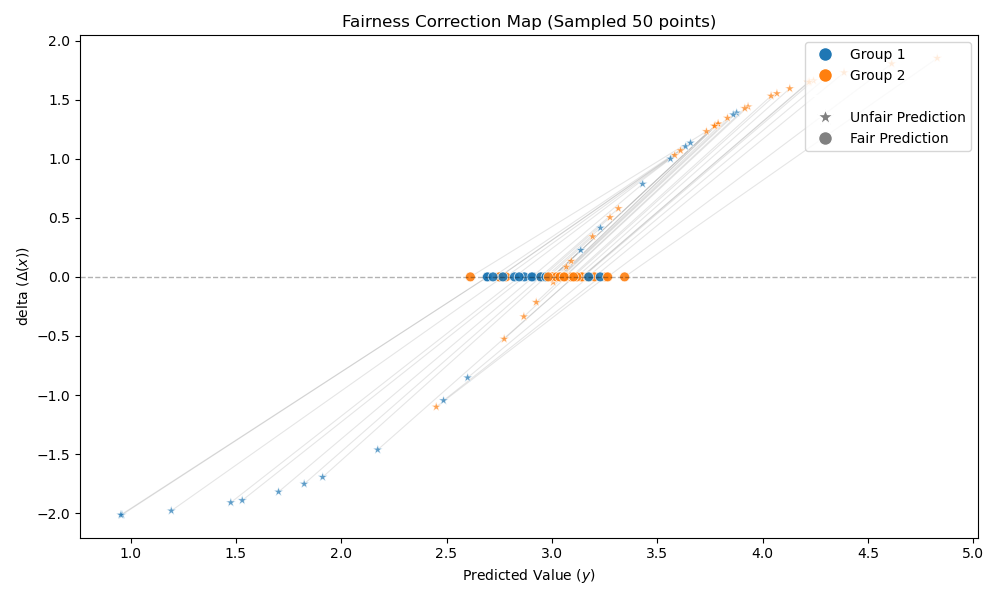
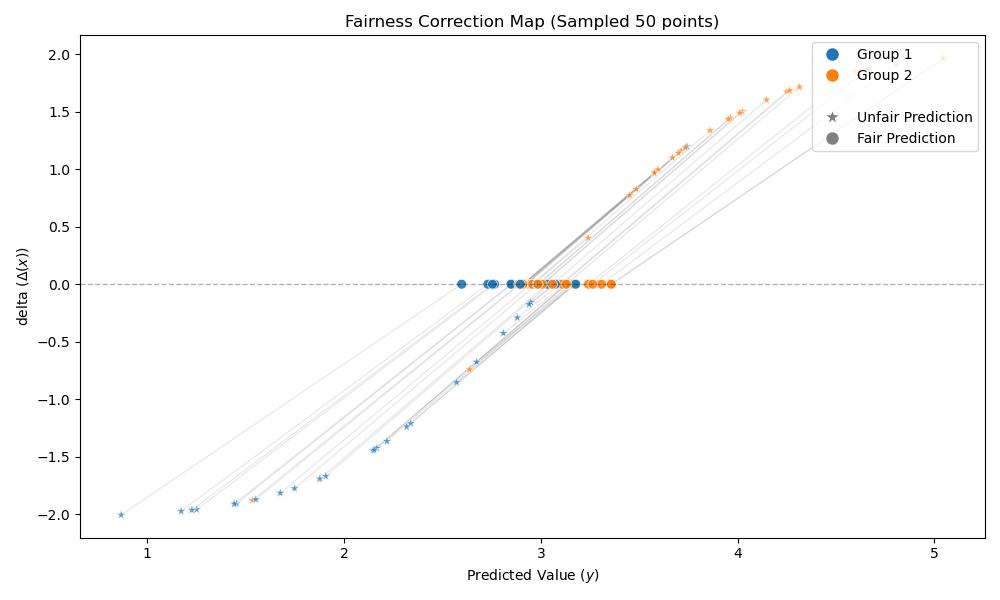
new kernel/ gp method

diff --git a/visualisation_unawareness.py b/visualisation_unawareness.py
@@ -44,12 +44,12 @@ def generate_linear_data(n , alpha_0, alpha_1, p = 0.5, x_scale = 1, noise_scale
 # %%
 
 # visualisation of generated dataset 
-n = 600 
+n = 1000 
 alpha_0 = 2
 alpha_1 = 1 
 x_scale = 1 
 noise_scale = 0.3 
-X, Y, S = generate_linear_data(n = 600, alpha_0 = alpha_0, alpha_1 = alpha_1, x_scale = x_scale, noise_scale = noise_scale)
+X, Y, S = generate_linear_data(n = n, alpha_0 = alpha_0, alpha_1 = alpha_1, x_scale = x_scale, noise_scale = noise_scale)
 
 # train-test split
 X_train, X_test, Y_train, Y_test, S_train, S_test = train_test_split(X, Y, S, train_size = 0.7)
@@ -432,6 +432,13 @@ plot_fairness_shift(
     n_samples = 50 
 )
 # %%
+
+
+
+
+
+
+
 # Gaussian process regression 
 # regression for the whole dataset/majority group/minority group
 from sklearn.gaussian_process import GaussianProcessRegressor
@@ -446,15 +453,17 @@ Y_train_maj = Y_train[S_train == 1]
 X_test_maj = X_test[S_test == 1]
 Y_test_maj = Y_test[S_test == 1]
 
-gp_reg_maj = GaussianProcessRegressor(kernel=kernel, n_restarts_optimizer=9).fit(X_train_maj, Y_train_maj)
-y_gp_maj = gp_reg_maj.predict(X_test_maj)
+gp_reg_maj = GaussianProcessRegressor(kernel=kernel, n_restarts_optimizer=9, alpha=noise_scale**2).fit(X_train_maj, Y_train_maj)
+X_test_maj_sorted = np.sort(X_test_maj, axis = 0)
+y_gp_maj_sorted = gp_reg_maj.predict(X_test_maj_sorted)
 
 X_train_min = X_train[S_train == 2]
 Y_train_min = Y_train[S_train == 2]
 X_test_min = X_test[S_test == 2]
 Y_test_min = Y_test[S_test == 2]
-gp_reg_min = GaussianProcessRegressor(kernel=kernel, n_restarts_optimizer=9).fit(X_train_min, Y_train_min)
-y_gp_min = gp_reg_min.predict(X_test_min)
+gp_reg_min = GaussianProcessRegressor(kernel=kernel, n_restarts_optimizer=9, alpha=noise_scale**2).fit(X_train_min, Y_train_min)
+X_test_min_sorted = np.sort(X_test_min, axis =0 )
+y_gp_min_sorted = gp_reg_min.predict(X_test_min_sorted)
 
 
 # visualisation
@@ -479,18 +488,19 @@ x_range_max = X.max() + 0.2
 X_plot = np.linspace(x_range_min, x_range_max, 1000).reshape(-1, 1)
 
 # Line for S=1
-plt.plot(X_plot, gp_reg_maj.predict(X_plot), color=color_maj, 
+
+plt.plot(X_test_maj_sorted, y_gp_maj_sorted, color=color_maj, 
          linewidth=3, label='Regressor S=1')
 
 # Line for S=2
-plt.plot(X_plot, gp_reg_min.predict(X_plot), color=color_min, 
+plt.plot(X_test_min_sorted, y_gp_min_sorted, color=color_min, 
          linewidth=3, label='Regressor S=2')
 
 # Line for Unfair (Combined)
 plt.plot(X_plot, gp_reg.predict(X_plot), color=color_all, linestyle='--', 
          linewidth=2, label='Unfair Regressor (Combined)')
 
-plt.title(" Bias in Generated Data", fontsize=14)
+plt.title(" Bias in Generated Data (Gaussian process regressor)", fontsize=14)
 plt.xlabel("Feature X")
 plt.ylabel("Target Y")
 
@@ -503,9 +513,9 @@ plt.show()
 # %%
 
 # Fair regresseur
-ot_reg = OTUnawareFairRegressor()
-ot_reg.fit(X_train, Y_train, S_train)
-y_fair = ot_reg.predict(X_test, prediction= "knn")
+ot_reg_gp = OTUnawareFairRegressor(base_regressor= gp_reg)
+ot_reg_gp.fit(X_train, Y_train, S_train)
+y_gp_fair = ot_reg_gp.predict(X_test, prediction= "krr")
 
 
 def plot_fairness_correction(X, y_unfair, y_fair, s_attr, save_path=None):
@@ -606,10 +616,10 @@ def plot_fairness_correction(X, y_unfair, y_fair, s_attr, save_path=None):
 
 plot_fairness_correction(
     X=X_test, 
-    y_unfair=y_std, 
-    y_fair=y_fair, 
+    y_unfair=y_gp, 
+    y_fair=y_gp_fair, 
     s_attr=S_test, 
-    save_path="./results/fairness_correction_scatter.png"
+    save_path="./results/fairness_correction_scatter_gp.png"
 )
 
 
@@ -704,11 +714,11 @@ def plot_ks_comparison(y_unfair, y_fair, s_attr, group_names=None, save_path=Non
 # --- Example Usage ---
 # You can now call it cleanly:
 plot_ks_comparison(
-    y_unfair=y_std, 
-    y_fair=y_fair, 
+    y_unfair=y_gp, 
+    y_fair=y_gp_fair, 
     s_attr=S_test, 
     group_names=['Majority (S=1)', 'Minority (S=2)'], # Optional custom labels
-    save_path="./results/generic_data_unaware_KS.png"
+    save_path="./results/generic_data_unaware_KS_gp.png"
 )
 
 # %%
@@ -806,10 +816,10 @@ def plot_fairness_shift(y_unfair, y_fair, s_attr, delta, n_samples=None, seed=42
 
 
 plot_fairness_shift(
-    y_unfair = y_std, 
-    y_fair = y_fair, 
+    y_unfair = y_gp, 
+    y_fair = y_gp_fair, 
     s_attr = S_test, 
-    delta = ot_reg.delta_predict, 
+    delta = ot_reg_gp.delta_predict, 
     n_samples = 50 
 )
 # %%

diff --git a/OTUnawareFairRegressor.py b/OTUnawareFairRegressor.py
@@ -6,6 +6,8 @@ from sklearn.linear_model import LinearRegression, LogisticRegression
 from sklearn.neighbors import KNeighborsRegressor
 from sklearn.preprocessing import StandardScaler
 from scipy.stats import ks_2samp
+from sklearn.kernel_ridge import KernelRidge
+from sklearn.pipeline import make_pipeline
 
 class OTUnawareFairRegressor(BaseEstimator, RegressorMixin):
     """
@@ -27,7 +29,9 @@ class OTUnawareFairRegressor(BaseEstimator, RegressorMixin):
         self.linear_mapping_plus = ot.da.LinearGWTransport()
         self.linear_mapping_minus = ot.da.LinearGWTransport() 
         self.scaler_ = StandardScaler()
-        
+
+        self.krr_ = KernelRidge(kernel='rbf', alpha=0.1, gamma=0.1)
+
         self.eta_model_ = None
         self.delta_model_ = None
         self.p_s1_ = None
@@ -127,6 +131,8 @@ class OTUnawareFairRegressor(BaseEstimator, RegressorMixin):
         X_train_scaled = self.scaler_.fit_transform(X_train_features)
         self.knn_.fit(X_train_scaled, y_fair)
         
+        # Fit krr
+        self.krr_.fit(X_train_scaled, y_fair)
 
         # Fit a linear mapping
         self.linear_mapping_plus.fit(Xs=self.h_plus, Xt=self.y_fair_plus)
@@ -134,7 +140,7 @@ class OTUnawareFairRegressor(BaseEstimator, RegressorMixin):
 
         return self
 
-    def predict(self, X, prediction = "linear"):
+    def predict(self, X, prediction = "knn"):
         X = np.array(X)
 
         # Get Old Regressor Prediction
@@ -155,6 +161,13 @@ class OTUnawareFairRegressor(BaseEstimator, RegressorMixin):
                     pred_linear[idx] = self.linear_mapping_minus.transform(self.eta_model_.predict(X[idx].reshape(-1, 1)))[0][0]
 
             return pred_linear
+            
+        elif prediction == "krr":
+            features_new = np.column_stack((eta_new, delta_new))
+            features_scaled = self.scaler_.transform(features_new)
+            
+            pred_krr = self.krr_.predict(features_scaled)
+            return pred_krr
         
         else : 
             # Predict via k-NN
@@ -163,4 +176,5 @@ class OTUnawareFairRegressor(BaseEstimator, RegressorMixin):
             
             pred_knn = self.knn_.predict(features_scaled)
             return  pred_knn
+        
 
